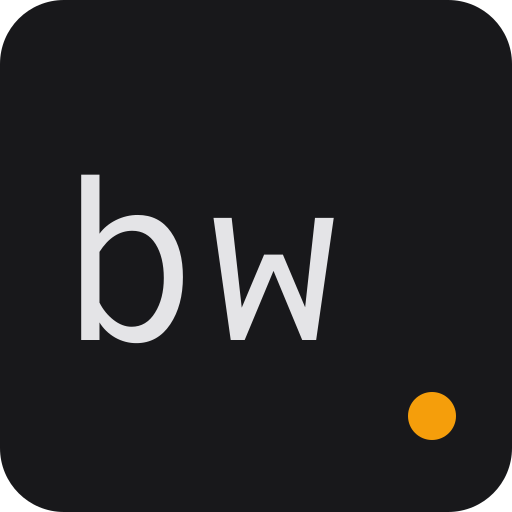
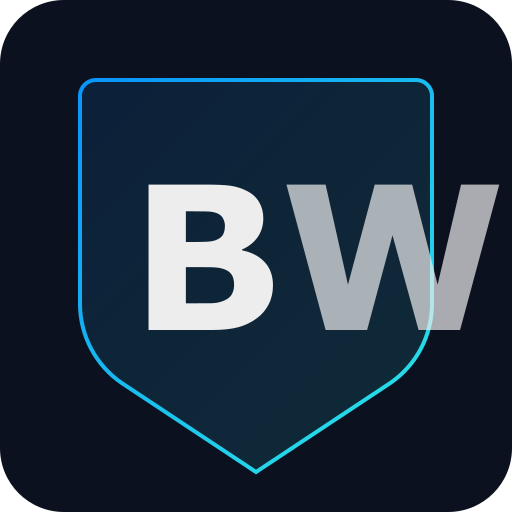
refactor: rebuild brand assets to match site design
Replace monospace/amber design with actual broodwar.live branding:
- Orbitron 900 wordmark with LIVE box (skewed -8deg)
- Shield + BW monogram square mark with blue-to-teal gradient
- Favicon from site's brandmark.svg
- Color palette from ASL/SOOP broadcast theme (OKLCH)
- Typography spec matching Pretendard/Orbitron/JetBrains Mono stack

diff --git a/README.md b/README.md
@@ -4,11 +4,11 @@ Brand assets for the broodwar.live project.
 
 ## Brandmark
 
-Typographic wordmark in monospace. The `.live` TLD is set in amber to distinguish it from the main word.
+Typographic wordmark using **Orbitron** (weight 900). Two-part construction: "BROODWAR" in uppercase + "LIVE" in a contrasting box with -8deg skew.
 
 ### Wordmark
 
-Full `broodwar.live` logotype for headers, banners, and documentation.
+Full BROODWAR LIVE logotype for headers, banners, and documentation.
 
 | Variant | File | Use |
 |---|---|---|
@@ -19,15 +19,17 @@ Full `broodwar.live` logotype for headers, banners, and documentation.
 
 ### Square Mark
 
-Compact `bw` monogram with amber dot for avatars, app icons, and social.
+Shield icon with BW monogram, using the blue-to-teal gradient. For avatars, app icons, and social.
 
 | Variant | File | Use |
 |---|---|---|
 | Dark | [bw-square-dark.svg](square/bw-square-dark.svg) | Primary — GitHub, social, app icon |
 | Light | [bw-square-light.svg](square/bw-square-light.svg) | Light contexts |
-| Amber | [bw-square-amber.svg](square/bw-square-amber.svg) | High-contrast / accent |
+| Gradient | [bw-square-gradient.svg](square/bw-square-gradient.svg) | Accent — gradient BW letters on dark |
 
 ### Favicon
+
+Shield with B/W letterforms, matches the site's `priv/static/images/brandmark.svg`.
 
 | File | Use |
 |---|---|
@@ -35,24 +37,72 @@ Compact `bw` monogram with amber dot for avatars, app icons, and social.
 
 ## Colors
 
+Inspired by ASL Season 21 / SOOP broadcast aesthetic.
+
+### Core Palette
+
+| Name | Value | Hex | Use |
+|---|---|---|---|
+| Navy (base) | `oklch(14% 0.03 255)` | ~`#0c1120` | Dark backgrounds |
+| Off-white | `oklch(94% 0.006 250)` | ~`#EDEDED` | Text on dark |
+| White | `#FFFFFF` | | LIVE box bg (dark mode) |
+
+### Accent Colors
+
+| Name | Value | Hex | Use |
+|---|---|---|---|
+| SOOP Blue | `oklch(60% 0.2 250)` | `#0182ff` | Primary accent, links, interactive |
+| Teal | `oklch(78% 0.14 180)` | `#32f6e0` | Gradient endpoint, secondary |
+| Purple | `oklch(55% 0.25 290)` | `#925aff` | Tertiary accent |
+
+### State Colors
+
 | Name | Hex | Use |
 |---|---|---|
-| Zinc 950 | `#18181B` | Primary text, dark backgrounds |
-| Zinc 200 | `#E4E4E7` | Light text on dark |
-| Zinc 50 | `#FAFAFA` | Light backgrounds |
-| Amber 500 | `#F59E0B` | `.live` accent (on dark) |
-| Amber 600 | `#D97706` | `.live` accent (on light) |
+| Live red | `#ff2f00` | Live indicators, urgent |
+| Success green | `oklch(72% 0.19 155)` | Online, success states |
+| Warning amber | `oklch(78% 0.15 80)` | Warnings |
+
+### Race Colors
+
+| Race | Value | Use |
+|---|---|---|
+| Terran | `oklch(62% 0.22 25)` | Gold/orange |
+| Protoss | `oklch(80% 0.16 90)` | Yellow |
+| Zerg | `oklch(58% 0.2 310)` | Purple |
 
 ## Typography
 
-The brandmark uses a monospace stack, reflecting the data-driven and technical nature of the project:
+### Brandmark Font
+
+**Orbitron** — weight 900 (ultra-bold), loaded from Google Fonts.
+
+- **BROODWAR** — letter-spacing: 0.04em, `color-base-content`
+- **LIVE** — letter-spacing: 0.06em, font-size: 0.55em relative, skewX(-8deg), inverted colors in a box
+
+### Site Fonts
+
+| Font | Class | Use |
+|---|---|---|
+| Pretendard Variable | (default body) | All UI text |
+| Black Han Sans | `.font-display` | Hero text, section titles |
+| Orbitron 900 | `.brandmark` | Brandmark only |
+| JetBrains Mono | `.font-stats` | Scores, Elo, APM, timestamps |
+
+## Brandmark Construction
 
 ```
-'SF Mono', 'Fira Code', 'JetBrains Mono', 'Cascadia Code', monospace
+┌─────────────────────────────────────────────────────┐
+│                                                     │
+│  BROODWAR ┌────────┐                                │
+│           │ LIVE   │  ← skewed -8deg                │
+│           └────────┘                                │
+│  ▲ Orbitron 900    ▲ Orbitron 900, 0.55em           │
+│  letter-sp 0.04em  letter-sp 0.06em                 │
+│                    box: white on dark, navy on light │
+│                                                     │
+└─────────────────────────────────────────────────────┘
 ```
-
-- **broodwar** — bold weight (700)
-- **.live** — regular weight (400) in wordmark, bold in square mark
 
 ## Legal
 
